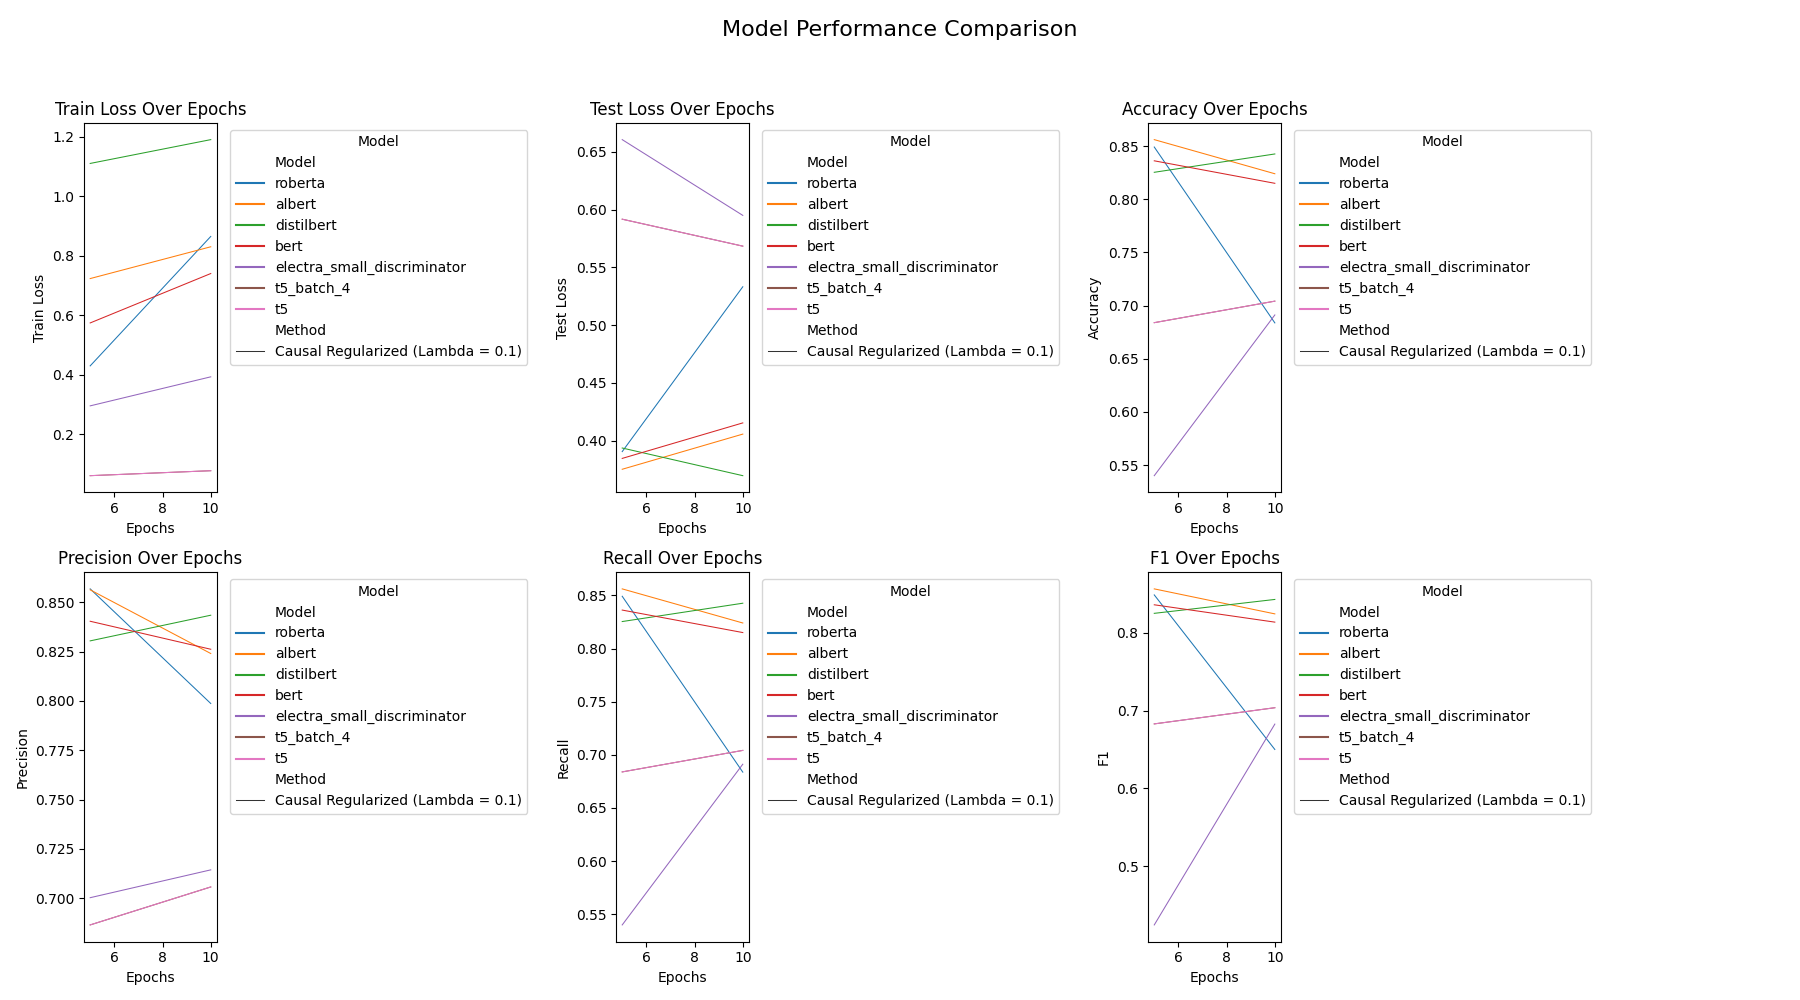
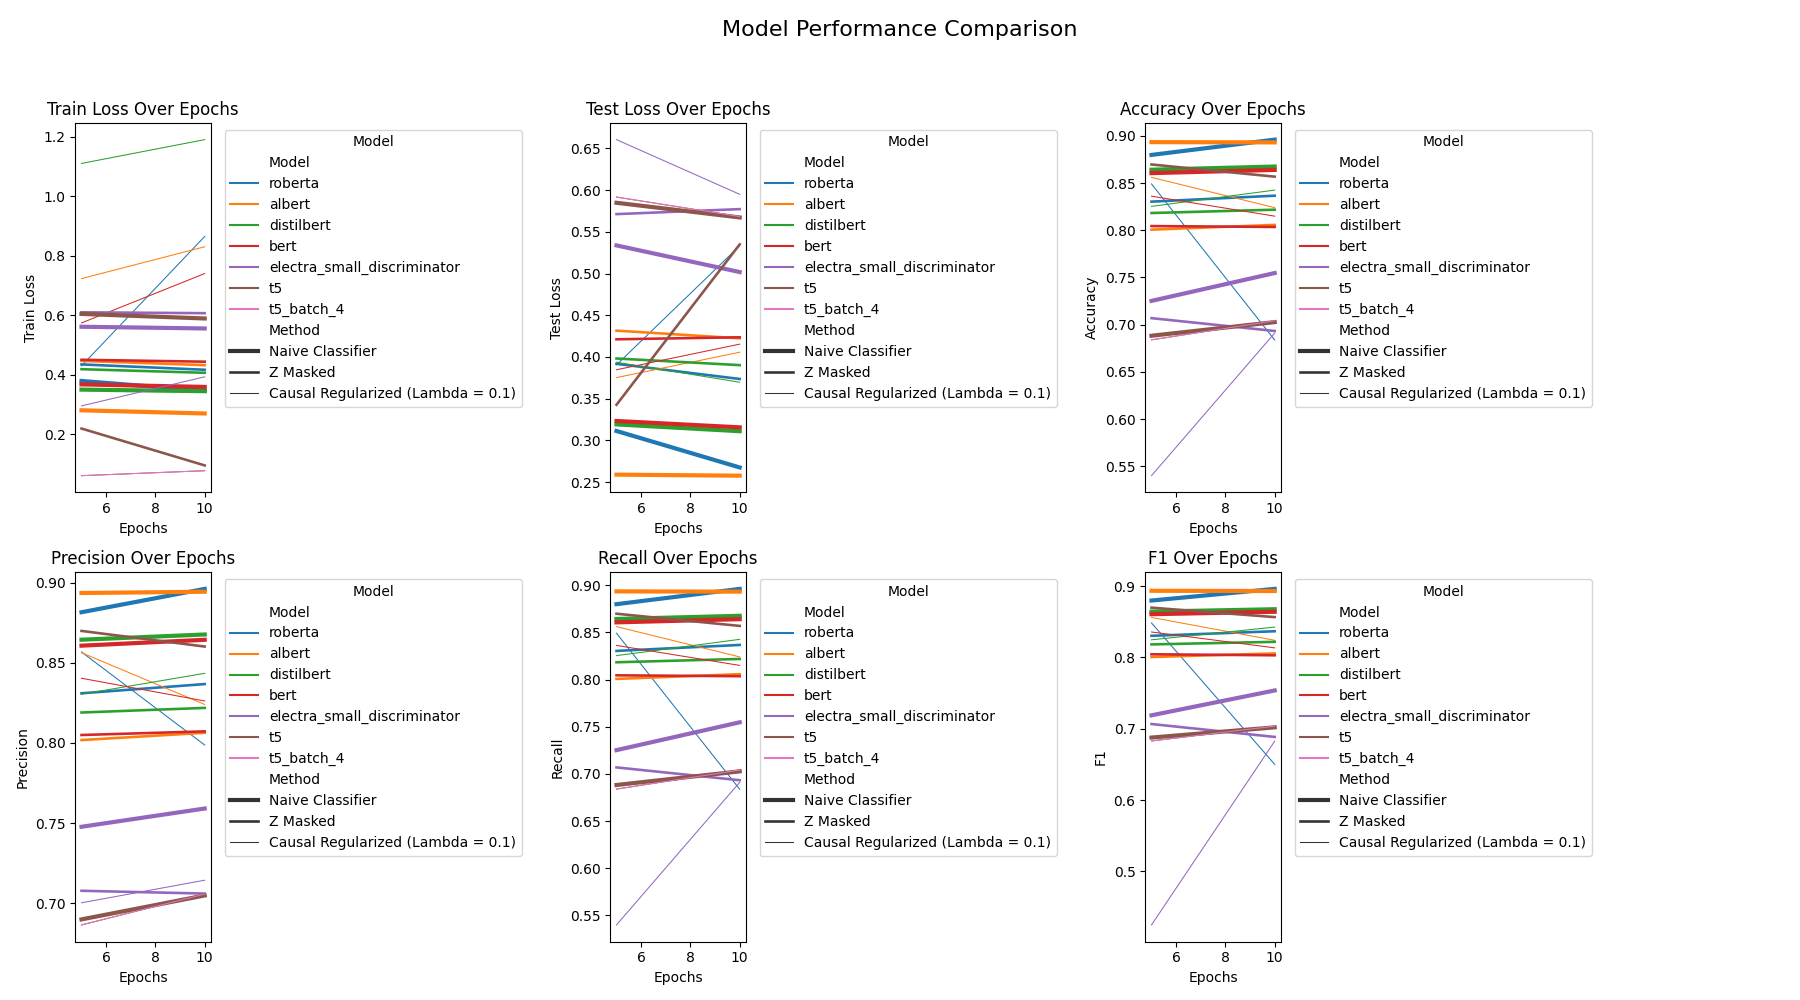
image_update

diff --git a/analysis/table_2.py b/analysis/table_2.py
@@ -32,7 +32,7 @@ metrics = ["Train Loss", "Test Loss", "Accuracy", "Precision", "Recall", "F1"]
 fig, axes = plt.subplots(2, 3, figsize=(18, 10))
 fig.suptitle("Model Performance Comparison", fontsize=16)
 for metric, ax in zip(metrics, axes.flatten()):
-        sns.lineplot(data=df, x="Epochs", y=metric, hue="Model", size = "Method" , markers=True, ax=ax)
+        sns.lineplot(data=final_df, x="Epochs", y=metric, hue="Model", size = "Method" , markers=True, ax=ax)
         ax.set_title(f"{metric} Over Epochs")
         ax.set_ylabel(metric)
         ax.set_xlabel("Epochs")
